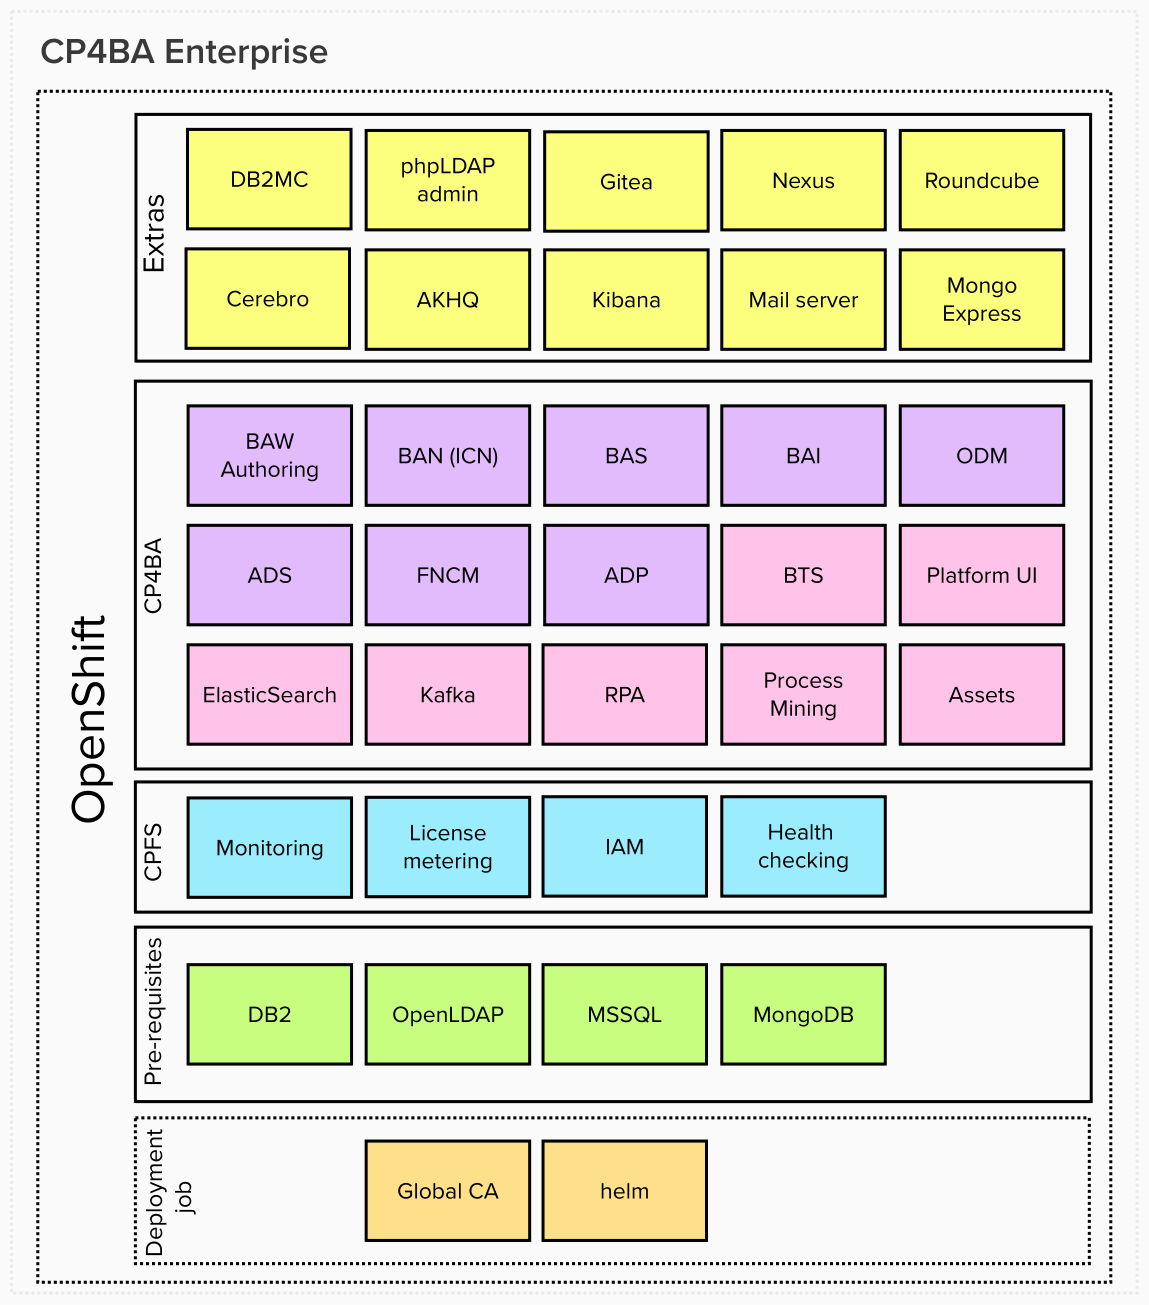
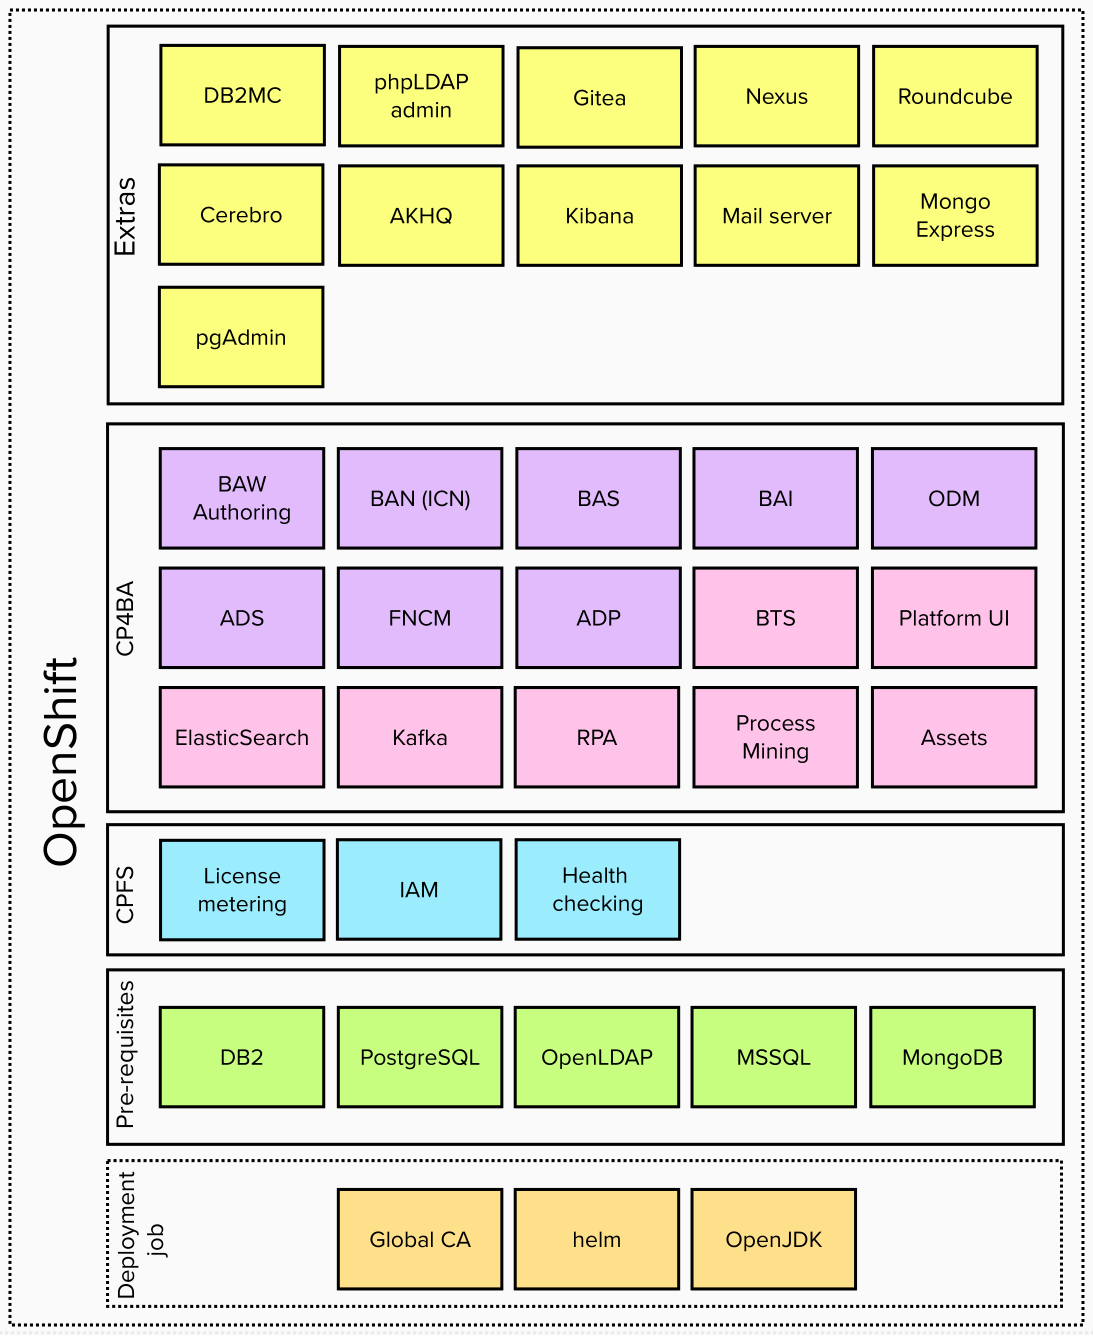
Update readme, changelog, picture

diff --git a/README.md b/README.md
@@ -93,6 +93,7 @@ Contains extra software which makes working with the platform even easier.
 - Kibana - Web UI elastic search dashboarding tool automatically connected to ES instance deployed with CP4BA.
 - Mail server - For various mail integrations e.g. from BAN, BAW and RPA.
 - Mongo Express - Web UI for Mongo DB databases for CP4BA and Process Mining to easier troubleshoot DB.
+- pgAdmin - Web UI for PostgreSQL database making it easier to admin and troubleshoot the DB.
 
 ### CP4BA (Cloud Pak for Business Automation) section<!-- omit in toc -->
 
@@ -116,7 +117,6 @@ Contains services which are reused by Cloud Paks.
 
 More info available in official docs at https://www.ibm.com/docs/en/cpfs.
 
-- Monitoring - Contains Grafana instance for custom dashboarding.
 - License metering - Tracks license usage. License Reporter as Web UI is also installed.
 - IAM - Provides Identity and Access management.
 - Health Checking - Enables you to generate MusthGather output which is useful for support.
@@ -486,6 +486,9 @@ data:
 
     ## Set to false if you don't want to install (or remove) DB2 Management Console
     db2mc_enabled: true
+
+    ## Set to false if you don't want to install (or remove) pgAdmin (PostgreSQL UI)
+    pgadmin_enabled: true
 
     ## Set to false if you don't want to install (or remove) Roundcube
     roundcube_enabled: true

diff --git a/CHANGELOG.md b/CHANGELOG.md
@@ -8,12 +8,14 @@ The format is based on [Keep a Changelog](https://keepachangelog.com/en/1.0.0/)
 
 ### Added
 
-- PostgreSQL deployment
+- PostgreSQL deployment.
+- pgAdmin for PostgreSQl UI administration.
 
 ### Changed
 
 - Updated CP4BA to 22.0.2.
 - Updated RPA to 23.0.0.
+- Default domain fro users/emails changed from cp.local to cp.internal as .local has other special meaning and should not be used.
 
 ### Fixed
 
